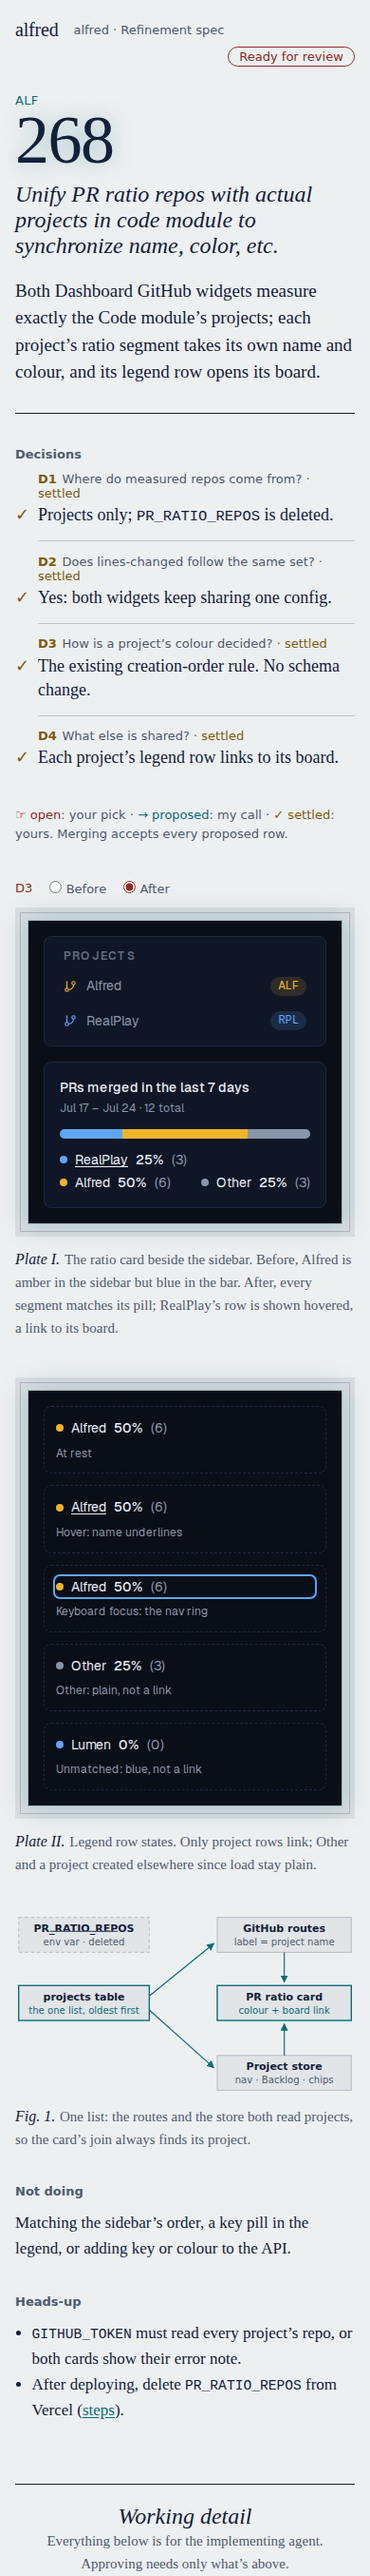
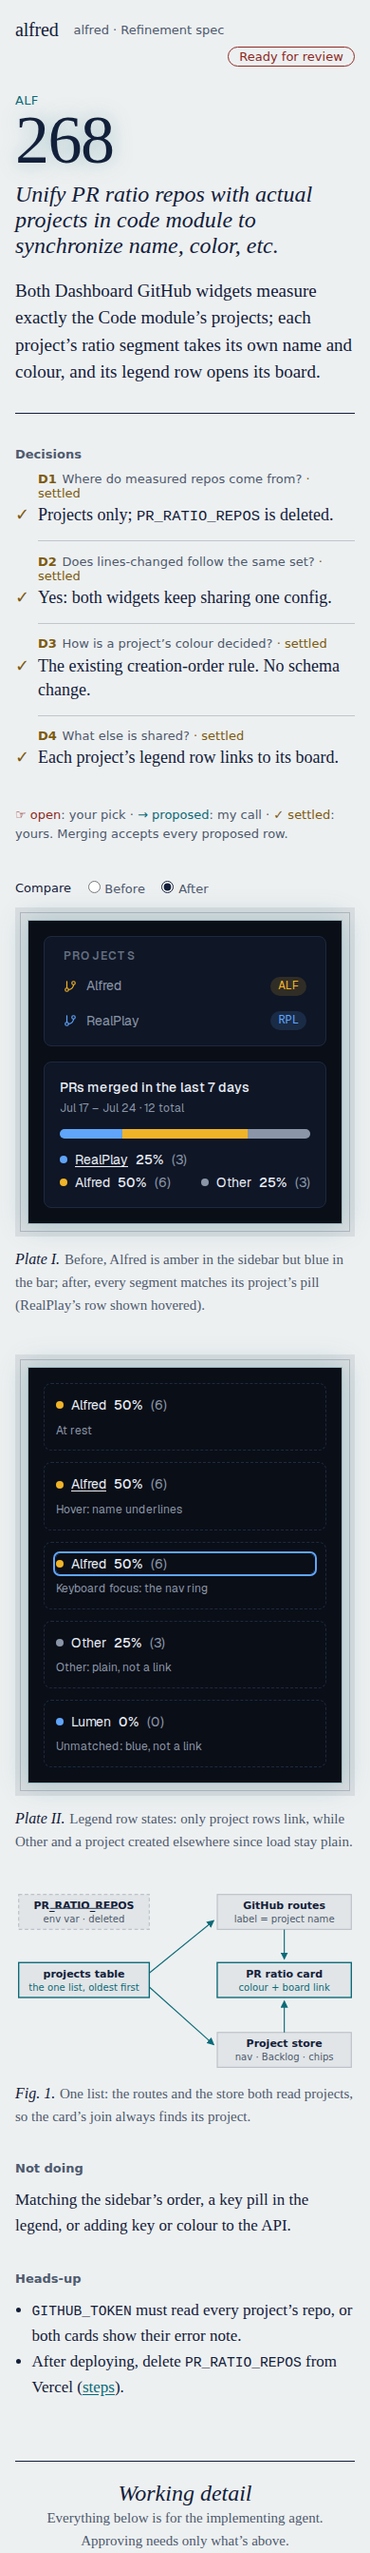
docs(demos): show mockup data-state can't move the stamp and evidence each section guide

diff --git a/docs/demos/alf-281-spec-template/alf-268-brief.html b/docs/demos/alf-281-spec-template/alf-268-brief.html
@@ -53,7 +53,7 @@ p,ol,ul,figure{margin:0}
 .wordmark{font:1.25rem Georgia,serif;letter-spacing:-.01em;color:var(--ink)}
 .stamp{margin-left:auto;border:1px solid var(--c-open);color:var(--c-open);border-radius:999px;padding:.1rem .7rem}
 .stamp::after{content:"Ready for review"}
-body:has([data-state=open]) .stamp::after{content:"Your call needed"}
+body:has(#decisions [data-state=open]) .stamp::after{content:"Your call needed"}
 .mast h1{display:grid;grid-template-columns:minmax(0,1fr) var(--note);gap:0 2rem;align-items:start;margin:1.75rem 0 1.25rem;font-weight:400;text-wrap:balance}
 .ref{grid-area:1/2;justify-self:end;text-align:right;font:var(--w-display) 5rem/.8 var(--f-display);letter-spacing:-.02em;white-space:nowrap;text-shadow:var(--lift)}
 .ref small{display:block;font:500 .8125rem var(--f-label);letter-spacing:.02em;color:var(--teal);text-shadow:none;margin-bottom:.4rem}
@@ -74,17 +74,17 @@ body:has([data-state=open]) .stamp::after{content:"Your call needed"}
 .list>li:first-child{border-top:0;padding-top:0}
 .list h3{grid-area:1/1;margin:0 0 .2rem;font:500 .8125rem var(--f-label);color:var(--muted)}
 .list h3::after{font-weight:400}
-[data-state=open] h3::after{content:" · open — your pick";color:var(--c-open)}
-[data-state=proposed] h3::after{content:" · proposed";color:var(--c-prop)}
-[data-state=settled] h3::after{content:" · settled";color:var(--c-set)}
+#decisions [data-state=open] h3::after{content:" · open — your pick";color:var(--c-open)}
+#decisions [data-state=proposed] h3::after{content:" · proposed";color:var(--c-prop)}
+#decisions [data-state=settled] h3::after{content:" · settled";color:var(--c-set)}
 .tag{font-weight:700;margin-right:.35rem;text-decoration:none;color:var(--c-prop)}
-[data-state=settled] .tag{color:var(--c-set)}
-[data-state=open] .tag{color:var(--c-open)}
+#decisions [data-state=settled] .tag{color:var(--c-set)}
+#decisions [data-state=open] .tag{color:var(--c-open)}
 .pick{grid-area:2/1;align-self:start;position:relative;font-size:1.125rem;line-height:1.4}
 .pick::before{content:"\2192";position:absolute;left:-1.35em;color:var(--c-prop)}
-[data-state=open] .pick{color:var(--c-open)}
-[data-state=open] .pick::before{content:"\261E\FE0E";left:-1.5em;top:-.05em;color:var(--c-open)}
-[data-state=settled] .pick::before{content:"\2713\FE0E";color:var(--c-set)}
+#decisions [data-state=open] .pick{color:var(--c-open)}
+#decisions [data-state=open] .pick::before{content:"\261E\FE0E";left:-1.5em;top:-.05em;color:var(--c-open)}
+#decisions [data-state=settled] .pick::before{content:"\2713\FE0E";color:var(--c-set)}
 .why{grid-area:1/2/3/3;padding-top:.1rem;font:italic .8125rem/1.45 var(--f-body);color:var(--muted)}
 .legend{margin-top:.9rem;font:.8125rem/1.5 var(--f-label);color:var(--muted)}
 .m-open{color:var(--c-open)} .m-prop{color:var(--c-prop)} .m-set{color:var(--c-set)}
@@ -151,9 +151,9 @@ figcaption b{font:italic 400 1rem var(--f-display);color:var(--ink);margin-right
 /* ═══ TEMPLATE · 4 · PLATE — the switcher, then the app's own tokens scoped to .app ═══ */
 /* The switcher: one per plate, in the document's chrome above the mount, never inside the canvas. */
 .switch{grid-column:1/-1;display:flex;flex-wrap:wrap;gap:.25rem 1.1rem;margin:0 0 .75rem;padding:0;border:0;font:500 .8125rem var(--f-label);color:var(--muted)}
-.switch legend{float:left;padding:0;color:var(--c-open)}
-.switch input{margin:0 .3rem 0 0;accent-color:var(--c-open)}
-.plate:has([value=before]:checked) [data-opt=after],.plate:has([value=after]:checked) [data-opt=before]{display:none}
+.switch legend{float:left;padding:0;color:var(--ink)}
+.switch input{margin:0 .3rem 0 0;accent-color:var(--ink)}
+#p1:has([value=before]:checked) [data-opt=after],#p1:has([value=after]:checked) [data-opt=before]{display:none}
 /* alfred's tokens: frontend/app/globals.css; card, bar and legend: components/atoms/surface-card.tsx,
    ratio-bar.tsx, components/code/pr-ratio.tsx; project colours: lib/code/project-color.ts; nav row and
    focus ring: lib/ui/nav-link-class.ts; key pill: components/atoms/badge.tsx */
@@ -223,7 +223,7 @@ figcaption b{font:italic 400 1rem var(--f-display);color:var(--ink);margin-right
 
 <section id="plates" aria-label="What you’ll see">
   <figure class="plate" id="p1">
-    <fieldset class="switch"><legend>D3</legend>
+    <fieldset class="switch"><legend>Compare</legend>
       <label><input type="radio" name="p1" value="before">Before</label>
       <label><input type="radio" name="p1" value="after" checked>After</label>
     </fieldset>
@@ -256,7 +256,7 @@ figcaption b{font:italic 400 1rem var(--f-display);color:var(--ink);margin-right
         </div>
       </div>
     </div>
-    <figcaption><b>Plate I.</b>The ratio card beside the sidebar. Before, Alfred is amber in the sidebar but blue in the bar. After, every segment matches its pill; RealPlay’s row is shown hovered, a link to its board.</figcaption>
+    <figcaption><b>Plate I.</b>Before, Alfred is amber in the sidebar but blue in the bar; after, every segment matches its project’s pill (RealPlay’s row shown hovered).</figcaption>
   </figure>
 
   <figure class="plate" id="p2">
@@ -271,7 +271,7 @@ figcaption b{font:italic 400 1rem var(--f-display);color:var(--ink);margin-right
         </div>
       </div>
     </div>
-    <figcaption><b>Plate II.</b>Legend row states. Only project rows link; Other and a project created elsewhere since load stay plain.</figcaption>
+    <figcaption><b>Plate II.</b>Legend row states: only project rows link, while Other and a project created elsewhere since load stay plain.</figcaption>
   </figure>
 </section>
 

diff --git a/docs/demos/alf-281-spec-template/spec-template.md b/docs/demos/alf-281-spec-template/spec-template.md
@@ -50,7 +50,7 @@ ALF-268 rebuilt, brief prose (plates and figure uncounted): 156
 
 ## Switchers work without script
 
-An option or state switcher is a set of radio inputs. CSS reads the choice with `:has(:checked)`, so it still works in the app’s script-less sandbox. The switcher is labelled with the decision it settles (here D3). At rest it shows the “After” state; picking “Before” swaps the card, with scripting off.
+An option or state switcher is a set of radio inputs. CSS reads the choice with `:has(:checked)`, so it still works in the app’s script-less sandbox. An open row’s switcher is labelled with its id (`D2: A | B`). This one only compares before and after, so it takes a plain word. It rests on “After”, and picking “Before” swaps the card with scripting off. The switcher’s ink is neutral: it claims no decision state.
 
 ```bash
 node docs/demos/alf-281-spec-template/capture.mjs docs/demos/alf-281-spec-template/alf-268-brief.html - switcher
@@ -62,6 +62,20 @@ after picking Before (no script): before shown
 ```
 
 ![](spec-template-image-5.png)
+
+## Only a decision row moves the stamp
+
+The masthead stamp and each row’s mark and state word are CSS reading `data-state`, scoped to `#decisions`. A mockup of Radix-built UI carries its own `data-state="open"` (menus, dialogs), and it no longer flips the stamp to “Your call needed” or marks its own headings as an open row. A real open row still flips it:
+
+```bash
+node docs/demos/alf-281-spec-template/capture.mjs docs/demos/alf-281-spec-template/alf-268-brief.html - stamp
+```
+
+```output
+as written: stamp "Ready for review"
+with a data-state="open" menu drawn in a plate: stamp "Ready for review", the mockup's own heading gains none
+with its first decision row open: stamp "Your call needed"
+```
 
 ## The template itself
 
@@ -88,19 +102,48 @@ id="tests" data-kind="story"
 id="demo" data-kind="story"
 ```
 
-Every section carries a `guide:` comment that gives what it holds, whether it is required, and its budget. The template is project-agnostic: apart from the `alfred` imprint, it has no ticket refs, app paths or app tokens, and no embedded data URIs. The house stylesheet (sections 1–3) stays under the ~10 KB budget.
+Each fillable section has a `guide:` comment naming it, with what it holds, whether it is required, and its budget. The first line of each:
 
 ```bash
-echo "guide comments: $(grep -c 'guide:' .claude/skills/refinement/assets/spec-template.html)"; echo "ALF- / frontend/ / globals.css / data-URI hits: $(grep -cE 'ALF-|frontend/|globals\.css|;base64,' .claude/skills/refinement/assets/spec-template.html)"; echo "stylesheet sections 1-3: $(sed -n '/TEMPLATE · 1/,/TEMPLATE · 4/p' .claude/skills/refinement/assets/spec-template.html | wc -c) bytes"
+grep -oE 'guide: #[a-z-]+.*' .claude/skills/refinement/assets/spec-template.html | sed -E 's/ *(-->)?$//'
 ```
 
 ```output
-guide comments: 30
-ALF- / frontend/ / globals.css / data-URI hits: 0
-stylesheet sections 1-3: 9160 bytes
+guide: #head, required. The imprint bar names the project and the spec's kind; the stamp fills itself
+guide: #change, required. What changes for the human, in their words: one sentence, ≤ 30 words. A
+guide: #revised, after a review round (required on an epic re-refine); delete it on a first draft.
+guide: #decisions; delete it when no call passes this filter. A decision gets a row only if (a) the
+guide: #plates, required when anything the human sees changes (epic: only when the epic asserts what a
+guide: #diagram. Story: optional, usually absent; epic: expected. One figure when a flow crosses a
+guide: #not-doing, optional. Only what the ticket's wording might lead the human to expect: ≤ 3
+guide: #heads-up, optional. Manual steps for the human (link #after-merge), irreversible effects,
+guide: #context, required. The problem — what we're solving and why, from the ticket, its notes and
+guide: #decision-records, required if there are any decisions. One section.rec#dN per brief row:
+guide: #behavior (story), required unless the change is purely structural. Rules, states, edge cases,
+guide: #contracts (story), optional. Schema, route and API shapes, types, events. Never pin a
+guide: #architecture (epic), required. The architecture and data model later stories build against;
+guide: #constraints (epic), required. Constraints and non-goals in full, including what's deliberately
+guide: #split (epic), required. How the work splits into stories: a sketch of the slices and why, not
+guide: #plan (story), required. Files to touch, key snippets (annotated where a reviewer would want to
+guide: #ac (story), required. A checklist a reviewer and the implementing session can verify. Each
+guide: #tests (story), required. Which test tier pins each criterion, red → green.
+guide: #demo (story), required if anything visible changes. Point at the repo's demo-evidence rules;
+guide: #out, optional. Why each #not-doing item is out; implementation risks; facts to confirm while
+guide: #after-merge, optional. The human's manual steps in full; #heads-up links here.
 ```
 
-Stylesheet sections 1–3 are the settled look from the ALF-281 spec, rule for rule. Only two comments changed, dropping references to that spec’s own decision ids, which would mean something else in a new spec. The third hunk is just the range’s end marker: section 4, the per-spec plate section, starts there and is generic in the template.
+The template is project-agnostic: it has no ticket refs, app paths, app token values or embedded data URIs. The `alfred` imprint and the house palette are the exception, because the palette’s night edition is alfred’s own look. The house stylesheet (sections 1–3) stays under the ~10 KB budget.
+
+```bash
+echo "ALF- / frontend/ / globals.css / data-URI hits: $(grep -cE 'ALF-|frontend/|globals\.css|;base64,' .claude/skills/refinement/assets/spec-template.html)"; echo "stylesheet sections 1-3: $(sed -n '/TEMPLATE · 1/,/TEMPLATE · 4/p' .claude/skills/refinement/assets/spec-template.html | wc -c) bytes"
+```
+
+```output
+ALF- / frontend/ / globals.css / data-URI hits: 0
+stylesheet sections 1-3: 9259 bytes
+```
+
+Stylesheet sections 1–3 are the settled look from the ALF-281 spec, and every property is unchanged. Two comments drop references to that spec’s own decision ids, which would mean something else in a new spec. The row-state selectors gain a `#decisions` scope (above). The last hunk is just the range’s end marker, where section 4, the generic per-spec plate section, begins:
 
 ```bash
 sed -n '/TEMPLATE · 1/,/TEMPLATE · 4/p' docs/specs/archive/ALF-281.html > /tmp/alf-281-css; sed -n '/TEMPLATE · 1/,/TEMPLATE · 4/p' .claude/skills/refinement/assets/spec-template.html > /tmp/template-css; diff /tmp/alf-281-css /tmp/template-css; sed -n '/TEMPLATE · 1/,/TEMPLATE · 4/p' docs/demos/alf-281-spec-template/alf-268-brief.html | cmp -s - /tmp/template-css && echo 'the ALF-268 rebuild carries the same sections 1-3 byte for byte'
@@ -115,6 +158,32 @@ sed -n '/TEMPLATE · 1/,/TEMPLATE · 4/p' docs/specs/archive/ALF-281.html > /tmp
 <   /* Ink roles (D1, "whose move"): colour says who holds the decision */
 ---
 >   /* Ink roles ("whose move"): colour says who holds the decision */
+48c48
+< body:has([data-state=open]) .stamp::after{content:"Your call needed"}
+---
+> body:has(#decisions [data-state=open]) .stamp::after{content:"Your call needed"}
+69,71c69,71
+< [data-state=open] h3::after{content:" · open — your pick";color:var(--c-open)}
+< [data-state=proposed] h3::after{content:" · proposed";color:var(--c-prop)}
+< [data-state=settled] h3::after{content:" · settled";color:var(--c-set)}
+---
+> #decisions [data-state=open] h3::after{content:" · open — your pick";color:var(--c-open)}
+> #decisions [data-state=proposed] h3::after{content:" · proposed";color:var(--c-prop)}
+> #decisions [data-state=settled] h3::after{content:" · settled";color:var(--c-set)}
+73,74c73,74
+< [data-state=settled] .tag{color:var(--c-set)}
+< [data-state=open] .tag{color:var(--c-open)}
+---
+> #decisions [data-state=settled] .tag{color:var(--c-set)}
+> #decisions [data-state=open] .tag{color:var(--c-open)}
+77,79c77,79
+< [data-state=open] .pick{color:var(--c-open)}
+< [data-state=open] .pick::before{content:"\261E\FE0E";left:-1.5em;top:-.05em;color:var(--c-open)}
+< [data-state=settled] .pick::before{content:"\2713\FE0E";color:var(--c-set)}
+---
+> #decisions [data-state=open] .pick{color:var(--c-open)}
+> #decisions [data-state=open] .pick::before{content:"\261E\FE0E";left:-1.5em;top:-.05em;color:var(--c-open)}
+> #decisions [data-state=settled] .pick::before{content:"\2713\FE0E";color:var(--c-set)}
 143c143
 < /* ═══ TEMPLATE · 4 · PLATE — the app's own tokens, scoped (this spec: frontend/app/globals.css,
 ---
